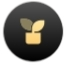
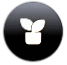
Add new images and little rewriting html

diff --git a/index.html b/index.html
@@ -353,10 +353,10 @@ opportunities.
        <div class="e-con-inner">
         <div class="elementor-element elementor-element-53158c3 elementor-widget elementor-widget-html" data-element_type="widget" data-id="53158c3" data-widget_type="html.default">
          <div class="elementor-widget-container">
-          <div class="grad-line">
+          <div class="grad-line" style="background-color: white;">
            
           </div>
-          <div class="grad-hor-line">
+          <div class="grad-hor-line" style="background-color: white;">
            
           </div>
          </div>
@@ -1500,7 +1500,7 @@ Joining early means gaining priority access to projects, features, and the full 
        </div>
        <div _transform_scale_effect_mobile":{"unit":"px","size":1.8,"sizes":[]},"_transform_scale_effect":{"unit":"px","size":"","sizes":[]},"_transform_scale_effect_tablet":{"unit":"px","size":"","sizes":[]}}"="" class="elementor-element elementor-element-744c69d e-transform elementor-widget elementor-widget-image" data-element_type="widget" data-id="744c69d" data-settings="{" data-widget_type="image.default">
         <div class="elementor-widget-container">
-         <img alt="" class="attachment-full size-full wp-image-129" decoding="async" height="1230" loading="lazy" sizes="(max-width: 1230px) 100vw, 1230px" src="images/img.webp" srcset="images/img.webp 1230w, images/img-300x300.webp 300w, images/img-1024x1024.webp 1024w, images/img-150x150.webp 150w, images/img-768x768.webp 768w" width="1230"/>
+         <img alt="" class="attachment-full size-full wp-image-129" decoding="async" height="1230" loading="lazy" sizes="(max-width: 1230px) 100vw, 1230px" src="images/Circle atom.png"  width="1230"/>
         </div>
        </div>
       </div>
